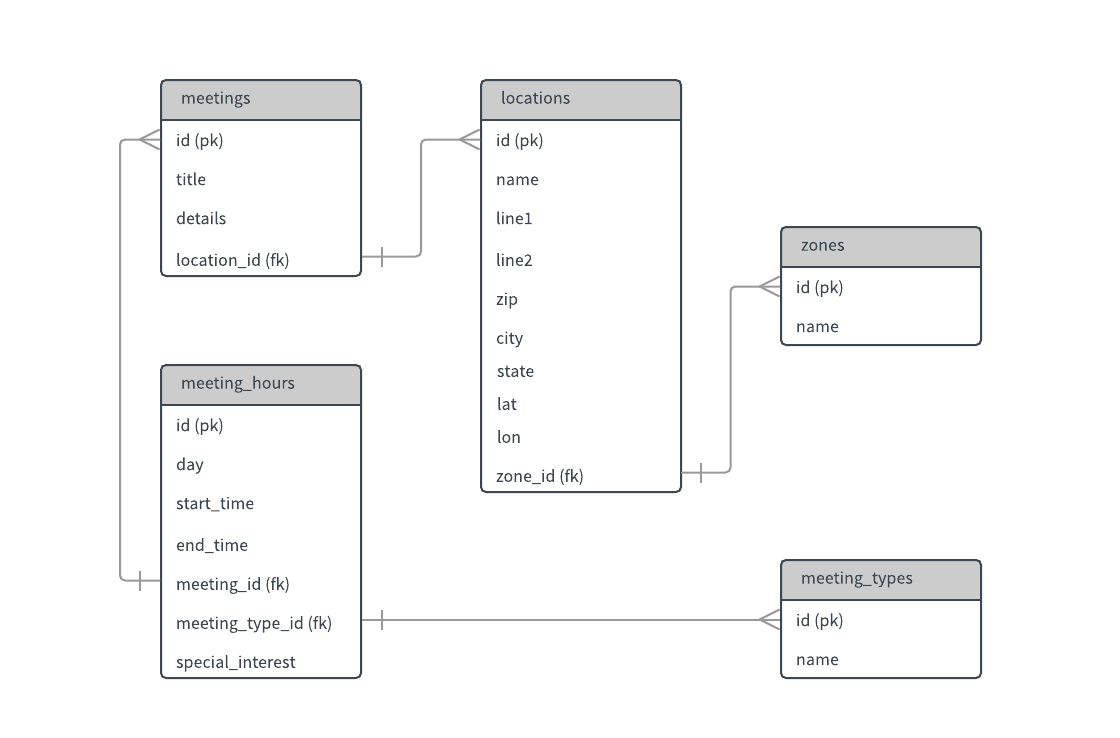
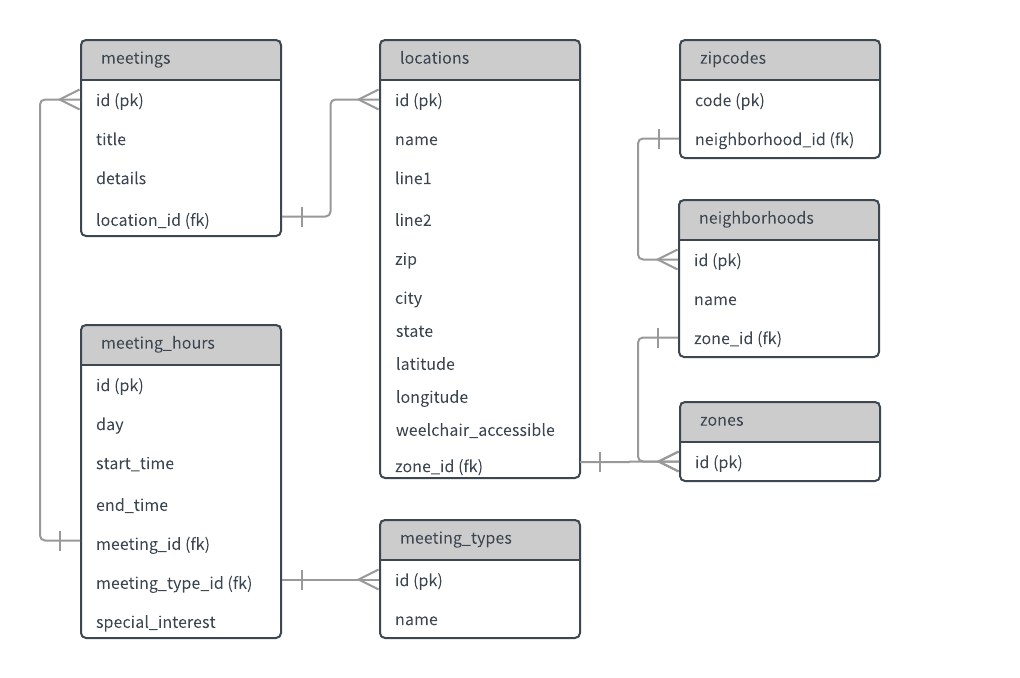
Add comments / readme

diff --git a/assignment-4/index.js b/assignment-4/index.js
@@ -1,19 +1,33 @@
+// By using a pool instead of single connection, the PG library will automatically
+// handle the amount of connections needed to efficiently run all the queries.
+// This means that I can query quite sloppy in the code here (don't bother about
+// waiting) and the library will handle queuing and keeping the connection(s) alive
 const { Pool } = require("pg");
+
+// My custom zones data file
 const zones = require("./zones.json");
+
+// The result of last weeks assignment
 const records = require("./input.json");
 
+// The zone where the records are all in
+const zone = "08";
+
+// Read the .env file and add it's values to the env variables
 require("dotenv").config();
 
 const { user, host, database, password, port } = process.env;
 
+// Connect to the DB
 const pool = new Pool({ user, host, database, password, port });
-
-const zone = "08";
-
 pool.connect();
 
+// Get all the zones (01, 02) etc. This could've been a hardcoded array, but 
+// in real life there are most likely more zones than just the 10 in Manhattan
 const zoneCodes = zones.map(({ code }) => code);
 
+// I had to make sure that the object structure created in last assignment was
+// flattened to an extent so I could more easily insert it into the DB later
 const parsedNeighborhoods = [];
 
 zones.forEach(({ code, neighborhoods }) => {
@@ -26,6 +40,8 @@ zones.forEach(({ code, neighborhoods }) => {
   });
 });
 
+// Could've been a separate JSON file, but seeing the size of all types, this'll
+// do
 const meetingTypes = {
   b: "Beginners Meeting",
   bb: "Big Book Meeting",
@@ -35,13 +51,20 @@ const meetingTypes = {
   s: "Step Meeting"
 };
 
+// The main insert function. Again using async/await to handle async code a little
+// more gracefully. It doesn't do any sort of graceful error handling. If one insert
+// fails, the DB connection is closed and the script will log the error and exit
+// the process
 async function insert() {
+
+  // 1. Insert all the zones (01, 02, etc)
   await Promise.all(
     zoneCodes.map(code =>
       pool.query(`INSERT INTO zones (id) VALUES ('${code}')`)
     )
   );
 
+  // 2. Add the meeting types
   await Promise.all(
     Object.keys(meetingTypes).map(type => 
       pool.query(`
@@ -55,6 +78,7 @@ async function insert() {
   );
 
   await Promise.all(
+    // 3. Add the neighborhoods
     parsedNeighborhoods.map(async ({ name, zone_id, zipcodes }) => {
       const { rows } = await pool.query(
         `INSERT INTO neighborhoods (name, zone_id) VALUES ($1::text, '${zone_id}') RETURNING id`,
@@ -62,6 +86,7 @@ async function insert() {
       );
       const neighborhood_id = rows[0].id;
 
+      // 4. Add the zipcodes
       return await Promise.all(
         zipcodes.map(zipcode =>
           pool.query(
@@ -72,6 +97,7 @@ async function insert() {
     })
   );
 
+  // 5. Add the locations
   await Promise.all(
     records.map(
       async ({ building, address, wheelchair, title, details, hours }) => {
@@ -99,6 +125,7 @@ async function insert() {
 
         const addressID = addressRows[0].id;
 
+        // 7. Add the meetings
         const { rows: meetingRows } = await pool.query(`
           INSERT INTO meetings (title, details, location_id)
           VALUES ($1, $2, $3)
@@ -108,6 +135,7 @@ async function insert() {
 
         const meetingID = meetingRows[0].id;
 
+        // 8. Add the meeting hours
         await Promise.all(
           hours.map(
             async ({
@@ -130,4 +158,7 @@ async function insert() {
   process.exit(0);
 }
 
-insert();
+insert().catch(err => {
+  pool.end();
+  console.error(err);
+});

diff --git a/assignment-4/install.js b/assignment-4/install.js
@@ -1,11 +1,12 @@
 const { Client } = require("pg");
 
+// Read the .env file and add it's values to the env variables
 require("dotenv").config();
 
 const { user, host, database, password, port } = process.env;
 
+// Connect to the DB
 const client = new Client({ user, host, database, password, port });
-
 client.connect();
 
 const queries = [
@@ -81,7 +82,8 @@ const queries = [
   )`
 ];
 
+// Wait for all the queries to be executed before closing the DB connection
 Promise.all(queries.map(query => client.query(query)))
   .then(() => client.end())
-  .then(() => console.log("Done!"))
+  .then(() => console.log("Done installing!"))
   .catch(console.error);

diff --git a/assignment-4/README.md b/assignment-4/README.md
@@ -2,6 +2,7 @@
 
 > See [the assignment details](https://github.com/visualizedata/data-structures/blob/master/assignments/weekly_assignment_04.md)
 
+* [**Installer Script**](https://github.com/rijkvanzanten/data-structures/blob/master/assignment-4/install.js)
 * [**Script**](https://github.com/rijkvanzanten/data-structures/blob/master/assignment-4/index.js)
 
 ## Installation & Usage
@@ -27,57 +28,73 @@ $ cd assignment-4
 $ npm install
 ```
 
-### 4. Add your Texas A&M GeoServices API Key
+### 4. Add a `.env` file
 
-<!-- You can either add a `.env` file to the root of the `assignment-4` folder with the following contents:
+The following environment variables are used:
 
 ```
-TAMU_KEY=<your-key>
+host=localhost
+user=postgres
+database=data-structures
+password=root
+port=5432
 ```
 
-or export it on the CLI directly:
+Change these values to your specific database credentials
 
-```bash
-$ export TAMU_KEY=<your-key>
-``` -->
+### 5. Run `npm start`
 
-### 5. Run the `index.js` file
-
-```bash
-$ node index.js
-```
+`npm start` will first run the installer script, which clears the database and sets up the table structure. When that's done, it will run the inserter script, which will insert all the rows.
 
 ## Problem to solve
 
-For each of the retrieved events from [the previous assignment](../assignment-2), lookup the geolocation (lat/lon) and add them to the array of objects.
+Create a database architecture for the AA data and insert the data you collected in the previous assignments into the database.
 
 ## The way I solved it
 
-Texas A&M has a pretty strict limit of the amount of requests you get to play around with. In order to save on the usage, I made a copy of a single result output of the API, so I could use that file to test my data retrieval on.
+The AA data has a lot of different aspects to it. There are meetings with multiple hours. These meetings are at locations. There can be multiple meetings at the same location. Each location is in a zone, each zone has multiple neighborhoods, each neighborhood covers multiple zipcodes, etc, etc, etc.
 
-### Sync vs Async
+My initial database structure looked like this:
 
-It was important to me that the script would perform the best it could (no waiting 2 arbitrary seconds per request). It meant that requests would be able to fire in parallel. Firing every request at the same time turned out to be the easiest part of the equation, as I could loop over each address and fire the request. The more involved part is actually waiting until all the requests are done before writing the result to file. I'm creating an array of Promises that I can than wait for using `Promise.all`. This ensures that all Promises are resolved before writing to file. However, this can cause problems if one of the requests doesn't contain the geolocation. Ideally, I want the script to finish and write whatever we got, and save `null` for the geolocations that failed.
+![Sketch of DB Architecture](./sketch.jpg)
 
-By writing a huge amount of existence checks, I was able to save the lat / long if they exist, and default to `null` if they don't:
+As you can see, I decided to extract the meeting types (fe OD Open Discussion / C Closed Meeting) into a separate table. This is because I figured there might be a need to add more data to the meeting types, like a description text or an image later.
+
+The same logic applied when I started including the zones into the database architecture:
+
+![Final DB Architecture](./erd.png)
+
+In this final setup, the zones, neighborhoods, and zipcodes are added in separate tables. I've chosen to normalize every piece of data in order to make everything efficiently searchable, something that was already possible on the original website (search by zipcode / zone / type / address etc). The `zones` table only contains it's identifier (eg `01`, `07`, `10`) as there is no other information on particular zones. I can imagine that other columns will be added to the `zones` table in the future in order to render them on a map, for example by using a column that holds the coordinates of the border of the zone.
+
+By extracting all the data instead of just the locations in the previous assignments, I made a real challenge for myself. Not only did I have to figure out the SQL statements (in Postgres flavor), but I also had to really play around with the order of execution. Zipcodes could only be inserted when the neighborhoods where already there (because the zipcode holds the ID of the neighborhood). Likewise;
+
+* neighborhoods could only be inserted when all the zones where done;
+* locations could only be inserted when the zones where done;
+* meetings could only be inserted when the locations where done;
+* meeting_hours could only be inserted when meeting_types was done.
+
+Another small but significant problem was the fact that I didn't extract any separate zone or meeting type information before. I had to create [a separate data file](./zones.json) for the zones, neighborhoods, and zipcodes. I had to create this manually from scratch because the zones and neighborhoods where only available in this schema:
+
+![](https://github.com/visualizedata/data-structures/blob/master/assignments/resources/aa.png)
+
+## Notes
+
+By using backticks in JS, I was able to make SQL queries on multiple lines, which greatly improved readability of the file:
 
 ```js
-  const { Latitude, Longitude } = (
-    data &&
-    data.OutputGeocodes &&
-    data.OutputGeocodes &&
-    data.OutputGeocodes[0] &&
-    data.OutputGeocodes[0].OutputGeocode
-  ) || {};
+[
+  // Single line
+  "DROP TABLE IF EXISTS meeting_hours CASCADE",
 
-  meeting.address.coordinates = {
-    lat: Latitude || null,
-    lon: Longitude || null
-  };
+  // Multiple lines
+  `CREATE TABLE meeting_hours (
+    id SERIAL PRIMARY KEY,
+    day CHAR(3) NOT NULL,
+    start_time TIME NOT NULL,
+    end_time TIME NOT NULL,
+    special_interest VARCHAR(255) NULL,
+    meeting_id INTEGER NOT NULL REFERENCES meetings(id),
+    meeting_type_id VARCHAR(2) NOT NULL REFERENCES meeting_types(id)
+  )`
+]
 ```
-
-_Sidenote: I can't wait 'til [optional chaining](https://github.com/tc39/proposal-optional-chaining) makes it way into JavaScript_
-
-## What I like to add
-
-This script can take a little while to complete. Right now, it doesn't give any feedback while it's processing the requests. It could be nice to add some sort of progress bar just like you see when installing `npm` dependencies.
